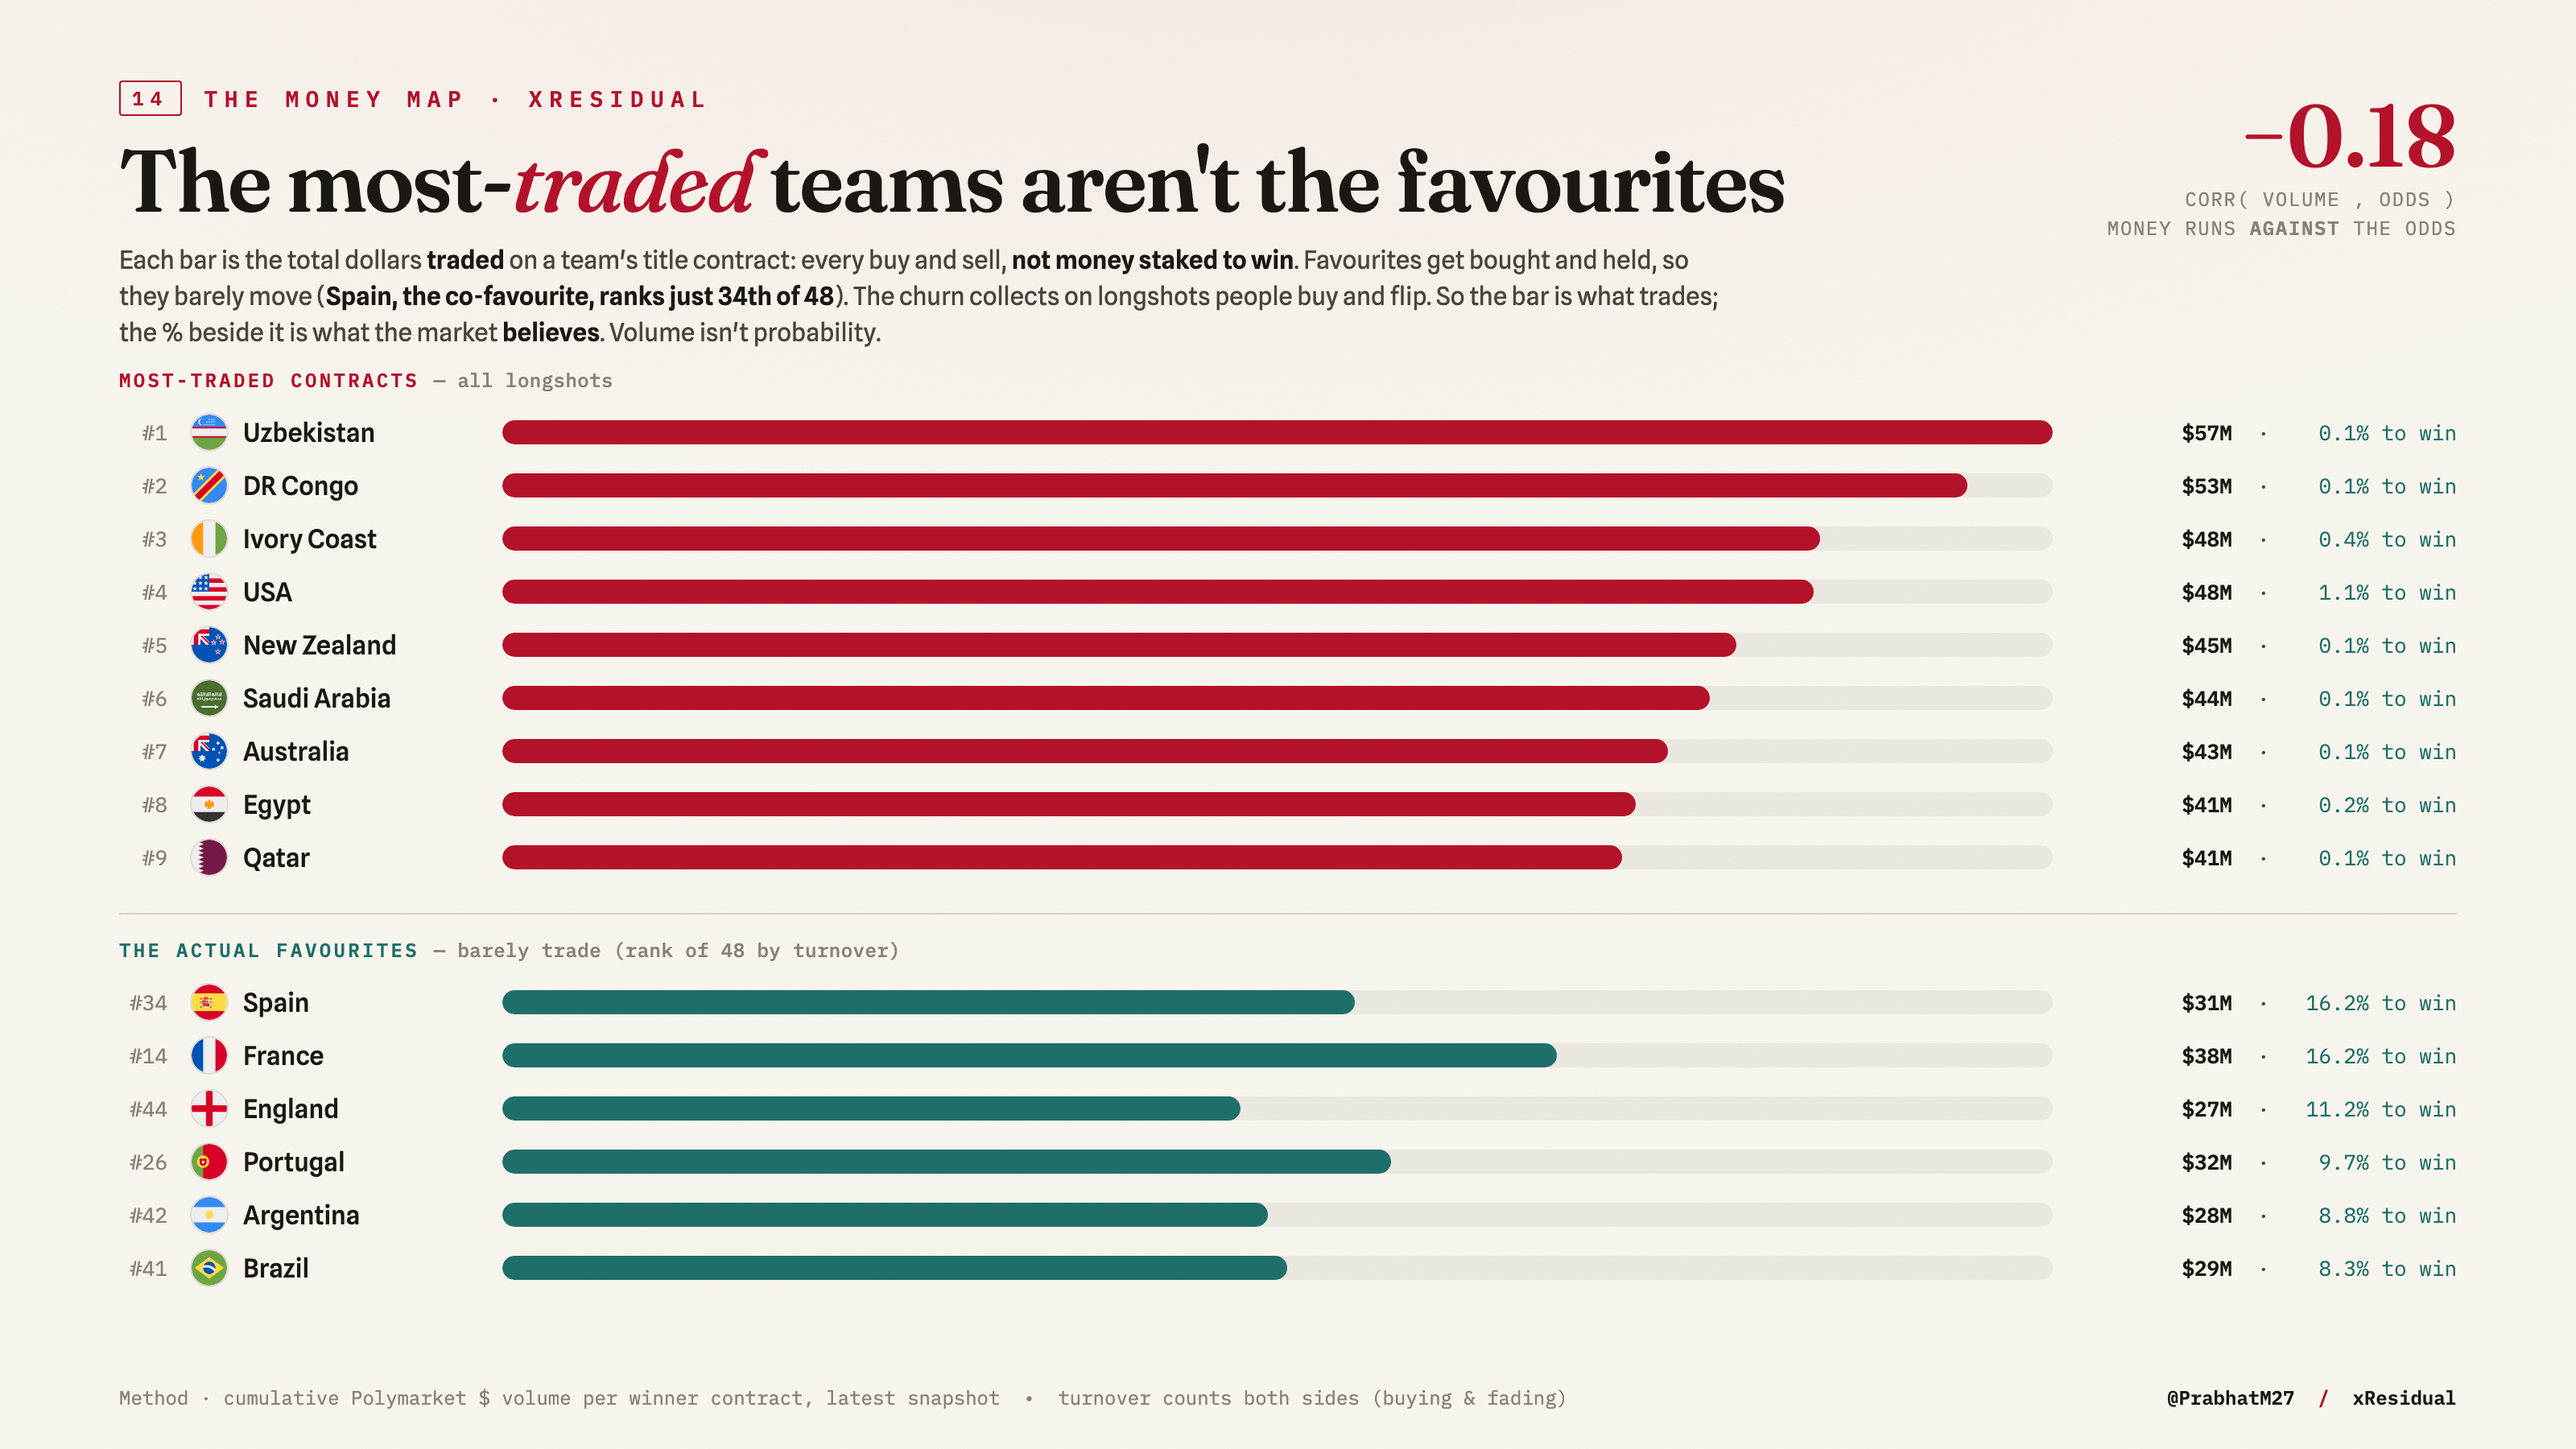
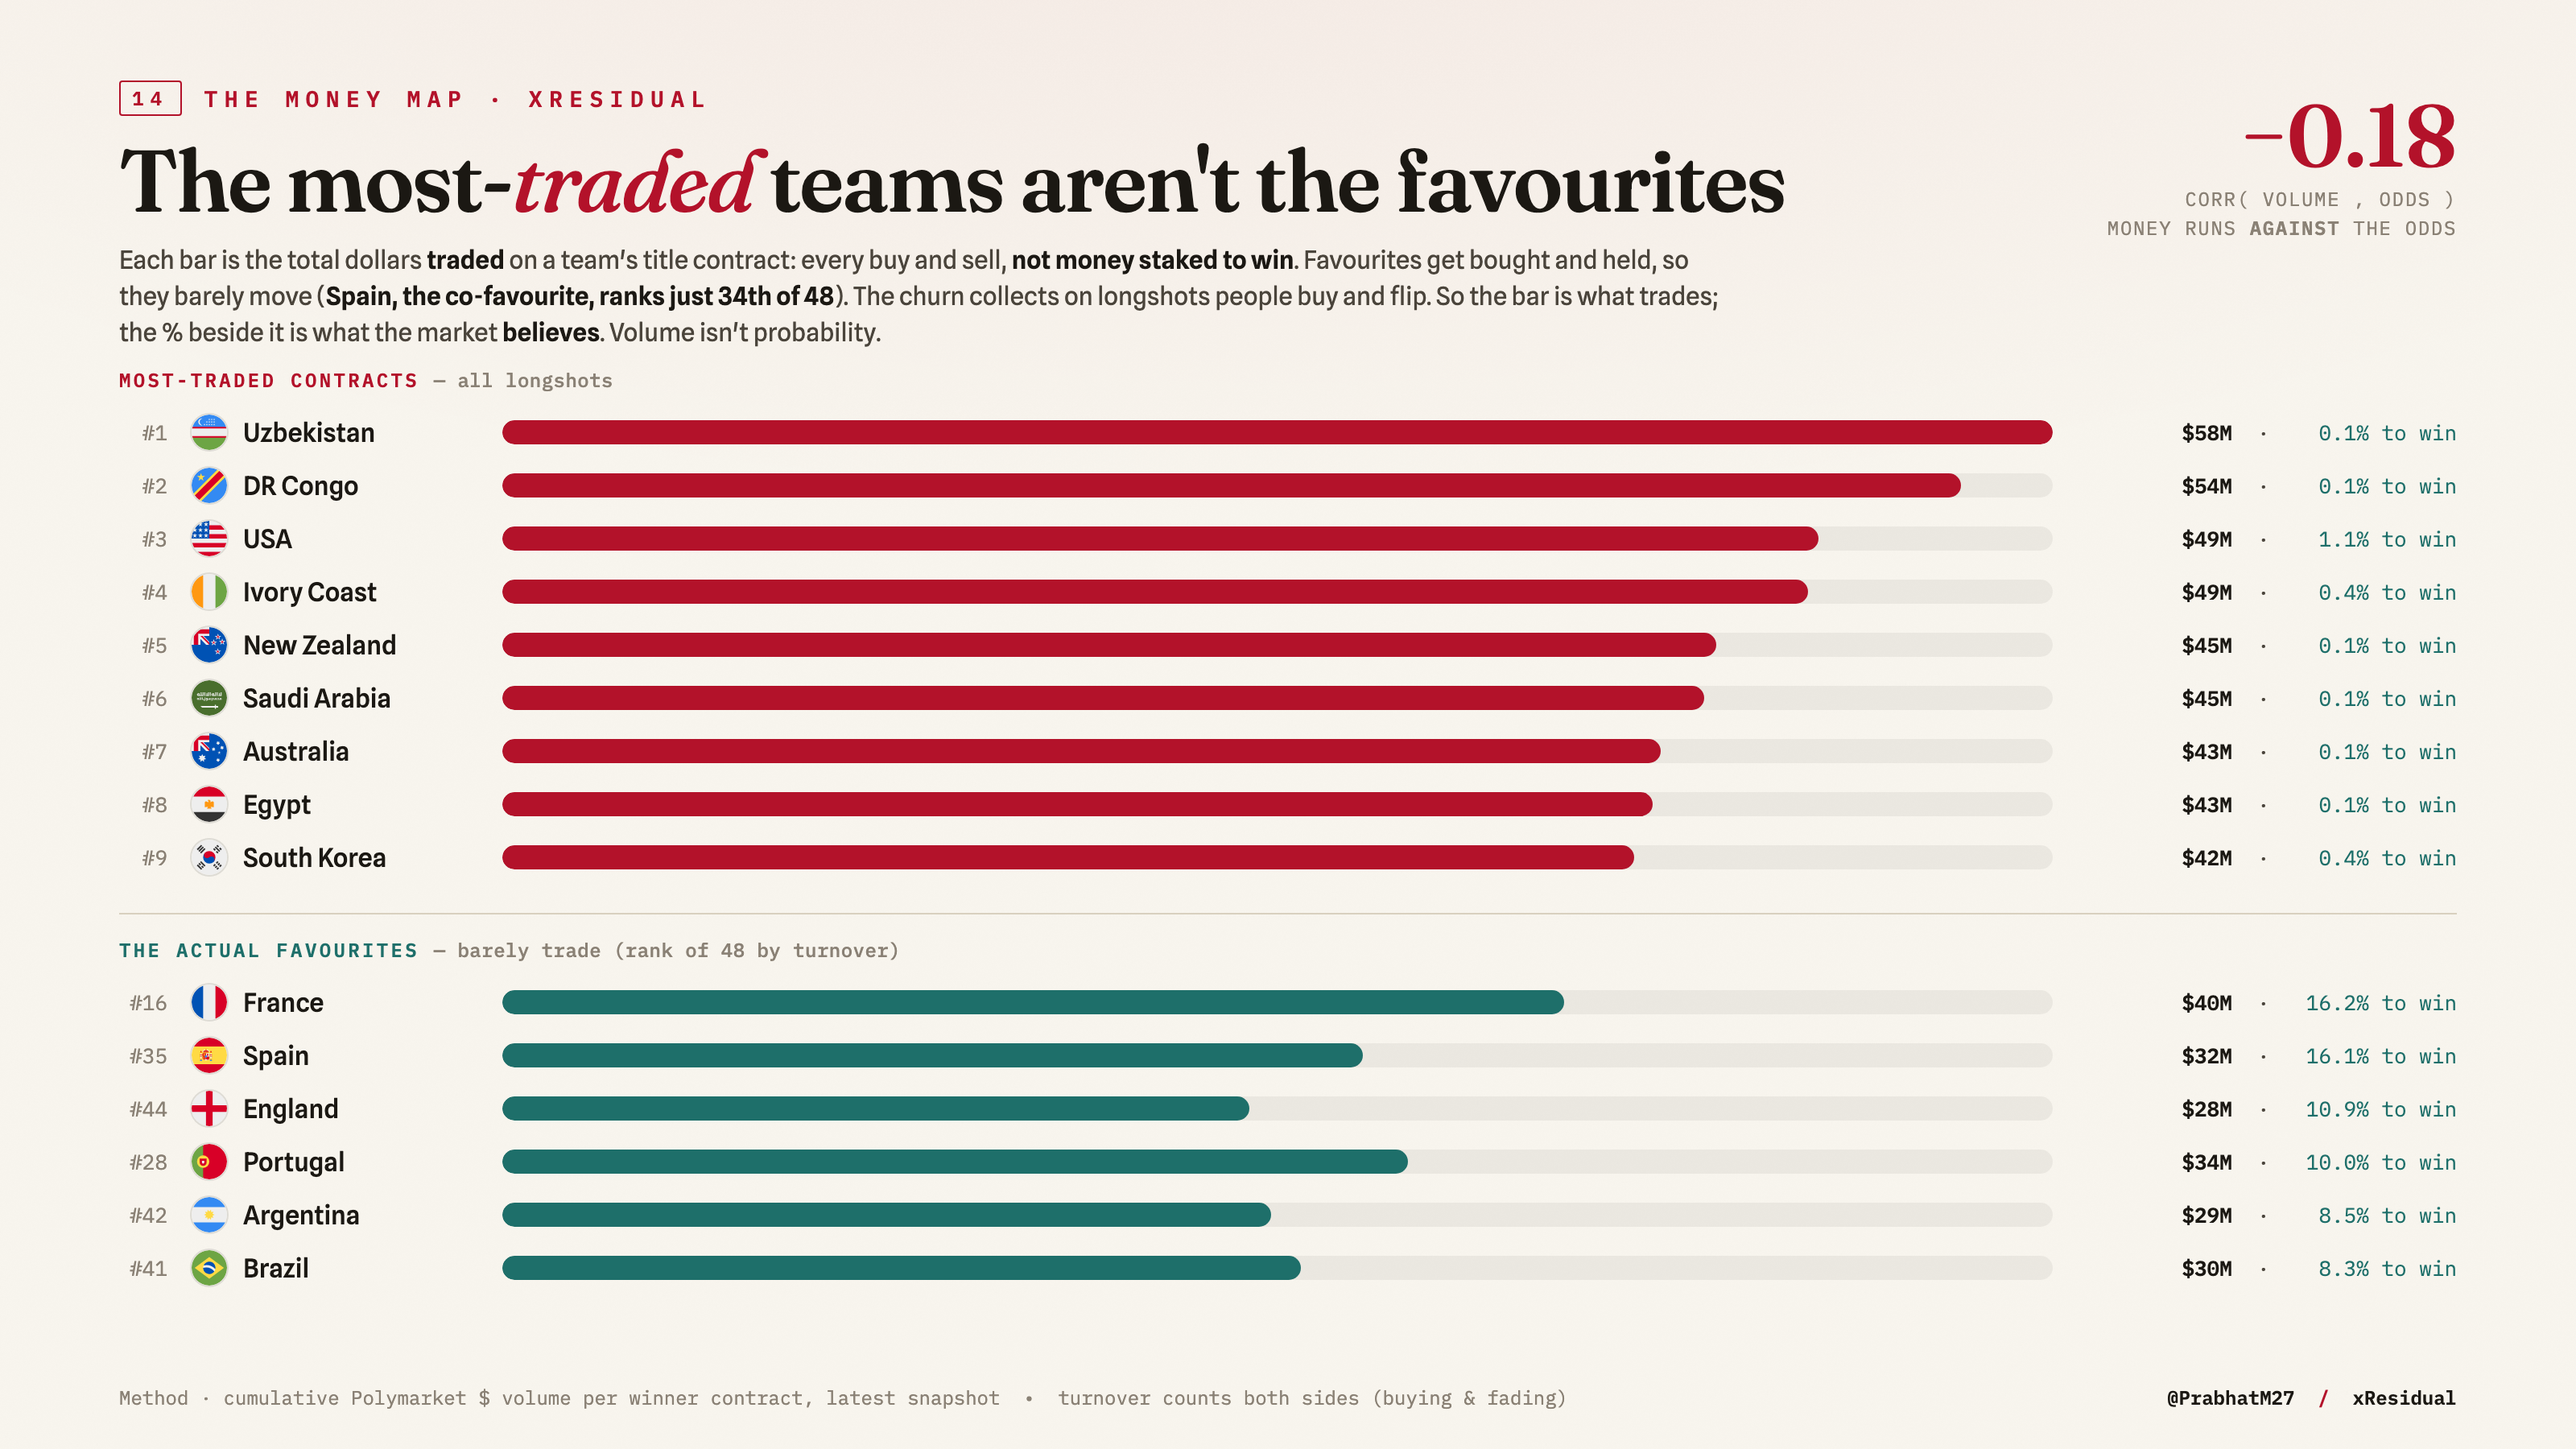
Update market viz data and images
Refresh market visualization data and assets. Updated viz/market/_buildup.js by extending BUILDUP one day (added 2026-06-08) and adjusting series values for all countries. Updated viz/market/_money.js with revised team volumes, favorite rankings (added South Korea in the teams list), and updated total_m to 1725. Replaced generated visualization assets buildup_trajectory.png and money_map.png to reflect the new data.

diff --git a/viz/market/_money.js b/viz/market/_money.js
@@ -1,1 +1,1 @@
-window.MONEY = {"teams": [{"team": "Uzbekistan", "iso": "uz", "color": "#1e50c8", "vol": 56.5, "volsh": 3.4, "prob": 0.1, "rank": 1}, {"team": "DR Congo", "iso": "cd", "color": "#1e50c8", "vol": 53.4, "volsh": 3.2, "prob": 0.1, "rank": 2}, {"team": "Ivory Coast", "iso": "ci", "color": "#e8731c", "vol": 48.0, "volsh": 2.9, "prob": 0.4, "rank": 3}, {"team": "USA", "iso": "us", "color": "#0a1f5c", "vol": 47.8, "volsh": 2.9, "prob": 1.1, "rank": 4}, {"team": "New Zealand", "iso": "nz", "color": "#3a3a3a", "vol": 45.0, "volsh": 2.7, "prob": 0.1, "rank": 5}, {"team": "Saudi Arabia", "iso": "sa", "color": "#0a7d3b", "vol": 44.0, "volsh": 2.6, "prob": 0.1, "rank": 6}, {"team": "Australia", "iso": "au", "color": "#0a7d3b", "vol": 42.5, "volsh": 2.5, "prob": 0.1, "rank": 7}, {"team": "Egypt", "iso": "eg", "color": "#a31226", "vol": 41.3, "volsh": 2.5, "prob": 0.2, "rank": 8}, {"team": "Qatar", "iso": "qa", "color": "#7a1f3a", "vol": 40.8, "volsh": 2.4, "prob": 0.1, "rank": 9}], "favs": [{"team": "Spain", "iso": "es", "color": "#d4122a", "vol": 31.1, "volsh": 1.9, "prob": 16.2, "rank": 34}, {"team": "France", "iso": "fr", "color": "#1e4fc4", "vol": 38.4, "volsh": 2.3, "prob": 16.2, "rank": 14}, {"team": "England", "iso": "gb-eng", "color": "#0a1f5c", "vol": 26.9, "volsh": 1.6, "prob": 11.2, "rank": 44}, {"team": "Portugal", "iso": "pt", "color": "#7c1c2c", "vol": 32.4, "volsh": 1.9, "prob": 9.7, "rank": 26}, {"team": "Argentina", "iso": "ar", "color": "#6cabdd", "vol": 27.9, "volsh": 1.7, "prob": 8.8, "rank": 42}, {"team": "Brazil", "iso": "br", "color": "#0a8f3c", "vol": 28.6, "volsh": 1.7, "prob": 8.3, "rank": 41}], "corr": -0.18, "n": 48, "total_m": 1670};
+window.MONEY = {"teams": [{"team": "Uzbekistan", "iso": "uz", "color": "#1e50c8", "vol": 57.7, "volsh": 3.3, "prob": 0.1, "rank": 1}, {"team": "DR Congo", "iso": "cd", "color": "#1e50c8", "vol": 54.3, "volsh": 3.1, "prob": 0.1, "rank": 2}, {"team": "USA", "iso": "us", "color": "#0a1f5c", "vol": 49.0, "volsh": 2.8, "prob": 1.1, "rank": 3}, {"team": "Ivory Coast", "iso": "ci", "color": "#e8731c", "vol": 48.6, "volsh": 2.8, "prob": 0.4, "rank": 4}, {"team": "New Zealand", "iso": "nz", "color": "#3a3a3a", "vol": 45.2, "volsh": 2.6, "prob": 0.1, "rank": 5}, {"team": "Saudi Arabia", "iso": "sa", "color": "#0a7d3b", "vol": 44.7, "volsh": 2.6, "prob": 0.1, "rank": 6}, {"team": "Australia", "iso": "au", "color": "#0a7d3b", "vol": 43.1, "volsh": 2.5, "prob": 0.1, "rank": 7}, {"team": "Egypt", "iso": "eg", "color": "#a31226", "vol": 42.8, "volsh": 2.5, "prob": 0.1, "rank": 8}, {"team": "South Korea", "iso": "kr", "color": "#c8102e", "vol": 42.1, "volsh": 2.4, "prob": 0.4, "rank": 9}], "favs": [{"team": "France", "iso": "fr", "color": "#1e4fc4", "vol": 39.5, "volsh": 2.3, "prob": 16.2, "rank": 16}, {"team": "Spain", "iso": "es", "color": "#d4122a", "vol": 32.0, "volsh": 1.9, "prob": 16.1, "rank": 35}, {"team": "England", "iso": "gb-eng", "color": "#0a1f5c", "vol": 27.8, "volsh": 1.6, "prob": 10.9, "rank": 44}, {"team": "Portugal", "iso": "pt", "color": "#7c1c2c", "vol": 33.7, "volsh": 2.0, "prob": 10.0, "rank": 28}, {"team": "Argentina", "iso": "ar", "color": "#6cabdd", "vol": 28.6, "volsh": 1.7, "prob": 8.5, "rank": 42}, {"team": "Brazil", "iso": "br", "color": "#0a8f3c", "vol": 29.7, "volsh": 1.7, "prob": 8.3, "rank": 41}], "corr": -0.18, "n": 48, "total_m": 1725};

diff --git a/viz/market/_buildup.js b/viz/market/_buildup.js
@@ -1,1 +1,1 @@
-window.BUILDUP = {"dates": ["2026-05-16", "2026-05-17", "2026-05-18", "2026-05-19", "2026-05-20", "2026-05-21", "2026-05-22", "2026-05-23", "2026-05-24", "2026-05-25", "2026-05-26", "2026-05-27", "2026-05-28", "2026-05-29", "2026-05-30", "2026-05-31", "2026-06-01", "2026-06-02", "2026-06-03", "2026-06-04", "2026-06-05", "2026-06-06", "2026-06-07"], "series": {"Spain": [15.53, 15.54, 15.11, 15.33, 15.41, 15.48, 15.72, 16.22, 16.33, 16.23, 16.09, 16.07, 16.09, 15.99, 15.98, 15.87, 16.02, 15.92, 15.74, 15.51, 15.64, 15.52, 15.72], "France": [16.71, 16.69, 16.74, 16.97, 17.06, 16.91, 17.02, 17.03, 16.91, 16.76, 16.47, 16.33, 15.81, 15.75, 15.69, 15.71, 16.15, 16.21, 16.08, 16.02, 15.5, 15.47, 15.62], "England": [10.52, 10.62, 10.3, 10.5, 10.54, 10.56, 10.56, 10.65, 10.66, 10.65, 10.55, 10.44, 10.49, 10.43, 10.51, 10.6, 10.5, 10.55, 10.61, 10.63, 10.48, 10.29, 10.27], "Portugal": [7.72, 7.71, 7.56, 7.7, 7.73, 8.02, 8.21, 8.21, 8.52, 9.05, 9.65, 9.66, 9.31, 9.15, 9.16, 9.53, 9.47, 9.11, 9.03, 9.07, 9.18, 10.06, 9.57], "Argentina": [8.41, 8.35, 7.96, 8.47, 8.5, 8.41, 8.43, 8.42, 8.43, 8.33, 8.15, 8.14, 8.18, 8.3, 8.26, 8.22, 8.34, 8.38, 8.38, 8.51, 8.69, 8.57, 8.53], "Brazil": [8.86, 8.88, 8.65, 8.75, 8.75, 8.73, 8.73, 8.83, 8.81, 8.79, 8.8, 8.83, 8.72, 8.73, 8.69, 8.47, 8.2, 8.11, 8.05, 7.97, 7.87, 7.76, 7.91], "Germany": [4.94, 4.88, 4.75, 4.82, 4.81, 4.82, 4.86, 4.88, 4.88, 4.88, 4.84, 4.83, 5.03, 5.06, 5.03, 5.0, 5.14, 5.3, 5.39, 5.39, 5.45, 5.52, 5.59]}};
+window.BUILDUP = {"dates": ["2026-05-16", "2026-05-17", "2026-05-18", "2026-05-19", "2026-05-20", "2026-05-21", "2026-05-22", "2026-05-23", "2026-05-24", "2026-05-25", "2026-05-26", "2026-05-27", "2026-05-28", "2026-05-29", "2026-05-30", "2026-05-31", "2026-06-01", "2026-06-02", "2026-06-03", "2026-06-04", "2026-06-05", "2026-06-06", "2026-06-07", "2026-06-08"], "series": {"Spain": [15.53, 15.54, 15.11, 15.33, 15.41, 15.48, 15.72, 16.22, 16.33, 16.23, 16.09, 16.07, 16.09, 15.99, 15.98, 15.87, 16.02, 15.92, 15.74, 15.56, 15.64, 15.52, 15.68, 15.61], "France": [16.71, 16.69, 16.74, 16.97, 17.06, 16.91, 17.02, 17.03, 16.91, 16.76, 16.47, 16.33, 15.81, 15.75, 15.69, 15.71, 16.15, 16.21, 16.08, 15.7, 15.5, 15.47, 15.54, 15.61], "England": [10.52, 10.62, 10.3, 10.5, 10.54, 10.56, 10.56, 10.65, 10.66, 10.65, 10.55, 10.44, 10.49, 10.43, 10.51, 10.6, 10.5, 10.55, 10.61, 10.55, 10.48, 10.29, 10.2, 10.17], "Portugal": [7.72, 7.71, 7.56, 7.7, 7.73, 8.02, 8.21, 8.21, 8.52, 9.05, 9.65, 9.66, 9.31, 9.15, 9.16, 9.53, 9.47, 9.11, 9.03, 8.93, 9.18, 10.06, 9.62, 9.59], "Argentina": [8.41, 8.35, 7.96, 8.47, 8.5, 8.41, 8.43, 8.42, 8.43, 8.33, 8.15, 8.14, 8.18, 8.3, 8.26, 8.22, 8.34, 8.38, 8.38, 8.63, 8.69, 8.57, 8.51, 8.38], "Brazil": [8.86, 8.88, 8.65, 8.75, 8.75, 8.73, 8.73, 8.83, 8.81, 8.79, 8.8, 8.83, 8.72, 8.73, 8.69, 8.47, 8.2, 8.11, 8.05, 8.06, 7.87, 7.76, 7.75, 7.81], "Germany": [4.94, 4.88, 4.75, 4.82, 4.81, 4.82, 4.86, 4.88, 4.88, 4.88, 4.84, 4.83, 5.03, 5.06, 5.03, 5.0, 5.14, 5.3, 5.39, 5.33, 5.45, 5.52, 5.48, 5.44]}};
